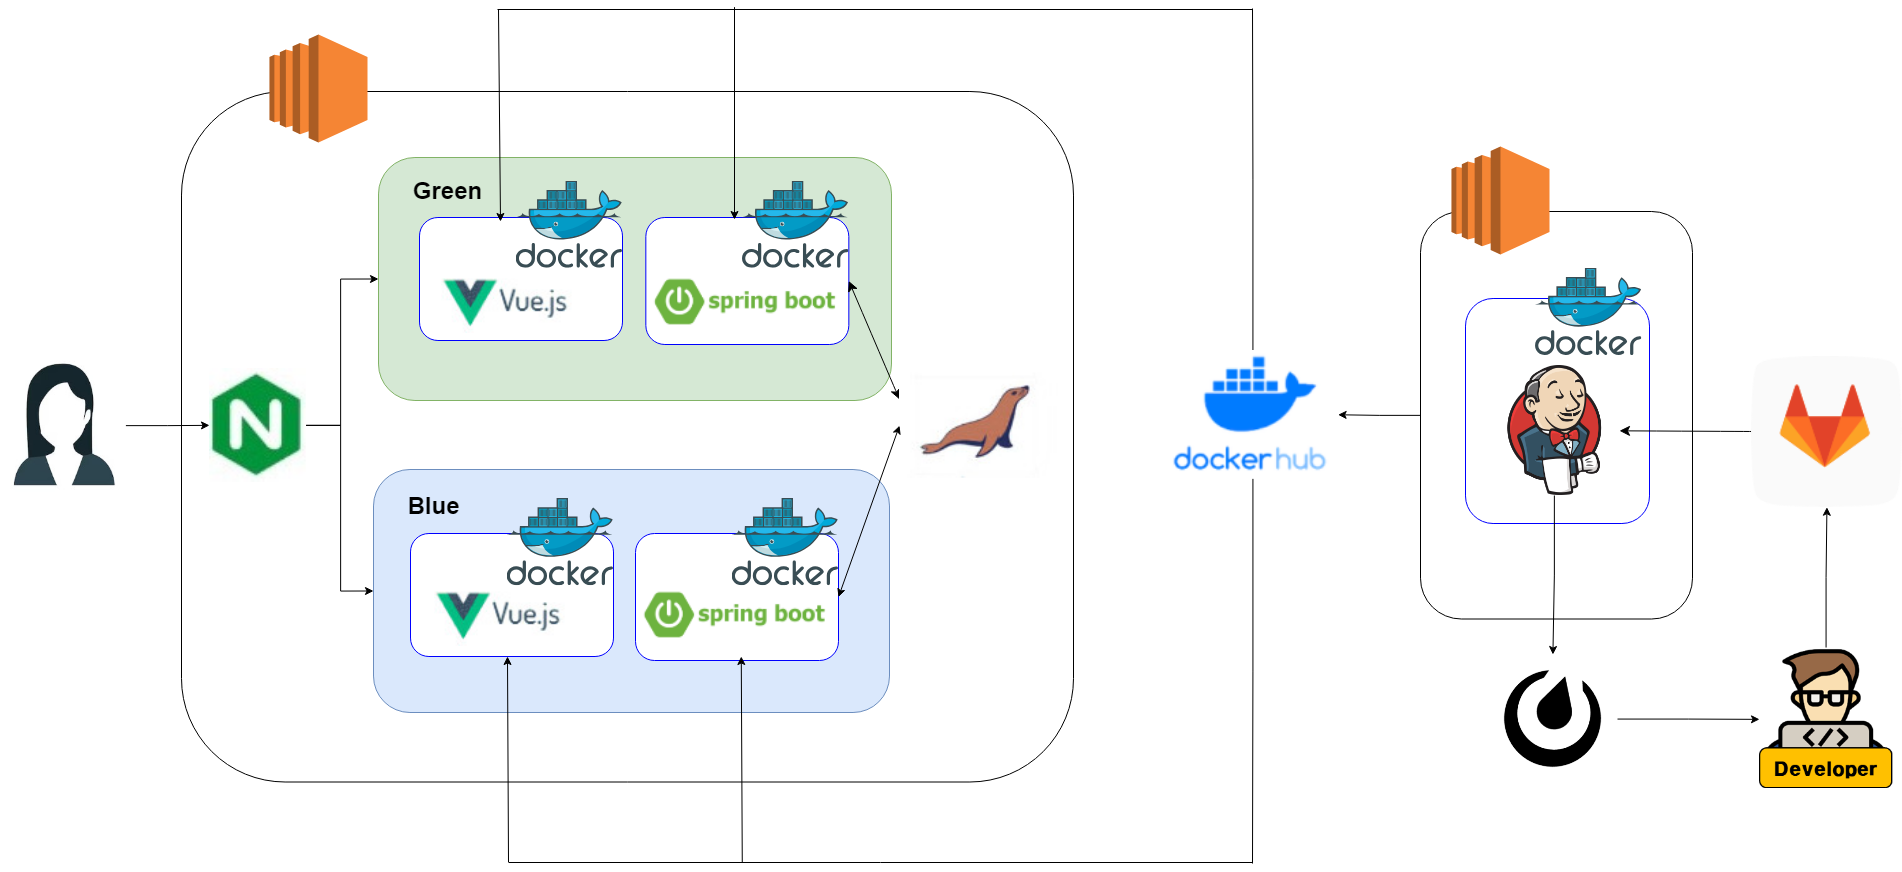
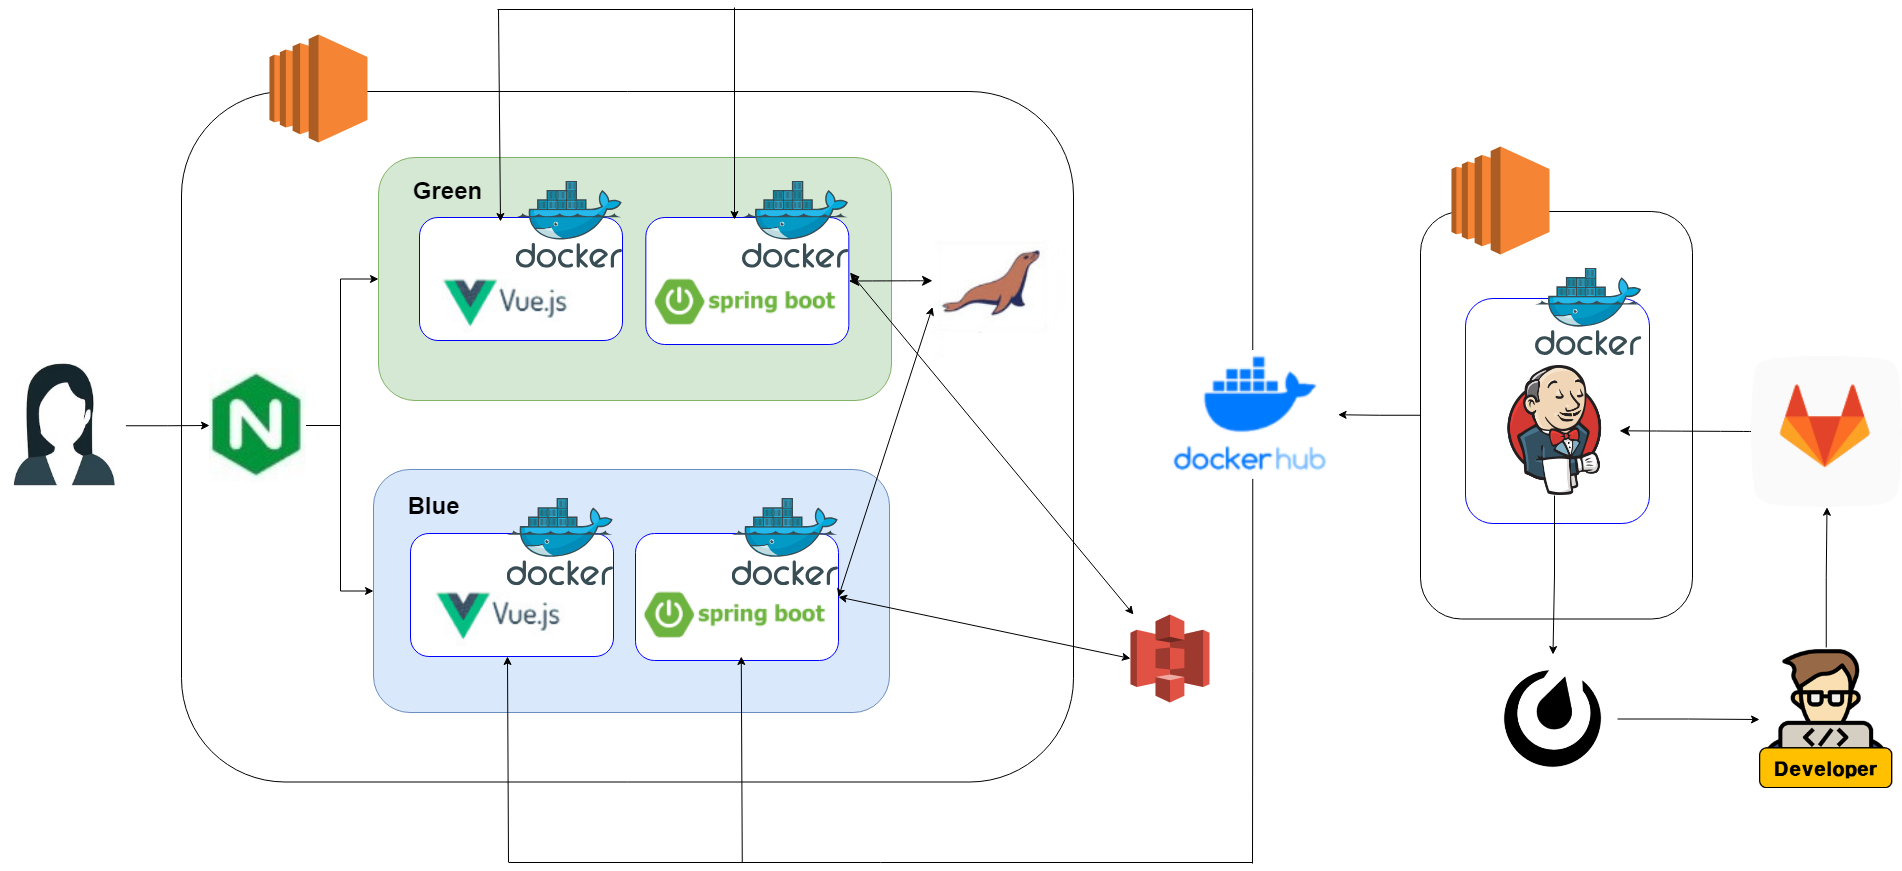
feat: readme 파일 수정

diff --git a/frontend/src/App.vue b/frontend/src/App.vue
@@ -29,7 +29,7 @@ onMounted(async () => {
 </script>
 
 <template>
-  <!-- test224fss4sssssss -->
+  <!-- test224fss4sssssssㅇㅇㅇㅇㅇㅇㅇㅇㅇㅇ -->
   <!-- <div class="flex justify-center bg-gray-800">
     <div
       class="bg-gray-200 main-container"

diff --git a/backend/src/main/java/com/ssafy/eggmoney/EggmoneyApplication.java b/backend/src/main/java/com/ssafy/eggmoney/EggmoneyApplication.java
@@ -5,7 +5,7 @@ import org.springframework.boot.autoconfigure.SpringBootApplication;
 import org.springframework.data.jpa.repository.config.EnableJpaAuditing;
 import org.springframework.scheduling.annotation.EnableScheduling;
 
-// test12ssssssssssss
+// test12ssssssssssssㅇㅇㅇㅇㅇㅇㅇㅇㅇㅇㅇ
 @SpringBootApplication
 @EnableJpaAuditing
 @EnableScheduling

diff --git a/README.md b/README.md
@@ -14,7 +14,9 @@
 
 1. 금융 API를 이용해 가상 계좌로 자금을 이체 <br/>
 2. 실제 주식 시장 데이터를 기반으로 가상 주식 매입/매도 활동 구현 <br/>
-3. 금융 뉴스: GPT를 이용한 뉴스 요약 제공 <br/>
+3. 예금 적금 상품 조회 및 가입 기능, 대출신청 및 심사 기능 제공<br/>
+4. QR 코드를 활용한 가족 연결<br/>
+5. 금융 뉴스: GPT를 이용한 뉴스 요약 <br/>
 
 ---
 #### 목차
@@ -42,7 +44,7 @@
 | **Framework** | Vue3.js | Spring Boot, Spring Security |  |
 | **Library** | Tailwind, PWA | JWT, JPA |  |
 | **DB** |  | MariaDB |  |
-| **Server** |  | Node.js | Amazon EC2, Nginx, Docker |
+| **Server** |  | Node.js | Amazon EC2, Nginx, Docker, S3 |
 | **CI/CD** |  |  | Jenkins, Mattermost |
 
 <br/>
@@ -73,7 +75,8 @@ MariaDB : MySQL의 포크로, 오픈 소스 관계형 데이터베이스 관리 
 Node.js : 서버 측 JavaScript 실행 환경으로, 비동기 I/O 모델을 사용하여 높은 성능과 확장성을 제공함. 웹 서버나 API 서버 구축에 적합.<br/>
 Amazon EC2 : 아마존 웹 서비스(AWS)의 클라우드 컴퓨팅 서비스로, 가상 서버를 손쉽게 생성하고 관리할 수 있음. 유연한 스케일링과 비용 효율성을 제공.<br/>
 Nginx : 고성능 웹 서버 및 리버스 프록시 서버로, 정적 파일 제공, 로드 밸런싱, SSL/TLS 지원 등을 통해 웹 애플리케이션의 성능을 개선함.<br/>
-Docker : 애플리케이션을 컨테이너화하여 배포할 수 있는 플랫폼으로, 개발 환경을 일관되게 유지하고 이식성을 높임. 여러 환경에서 동일한 성능을 보장함.
+Docker : 애플리케이션을 컨테이너화하여 배포할 수 있는 플랫폼으로, 개발 환경을 일관되게 유지하고 이식성을 높임. 여러 환경에서 동일한 성능을 보장함. <br/>
+Amazon S3: 객체 저장 서비스를 제공하는 플랫폼으로, 대량의 데이터를 안전하게 저장하고 관리할 수 있는 기능을 제공함. 데이터 백업, 복구 및 정적 웹 호스팅 지원. 다양한 애플리케이션과 통합이 용이하여, 필요한 경우 언제든지 데이터를 빠르게 액세스할 수 있음.
 
 </div>
 </details>
@@ -247,12 +250,39 @@ Blue/Green 배포는 애플리케이션의 새로운 버전을 배포할 때 서
 
 
 
-<details>
-<summary> 3⃣ 하둡, 스파크, SQOOP</summary>
 
-작성 예정
+<details>
+<summary>3⃣ 하둡, 스파크, SQOOP</summary>
+
+### 하둡
+
+- **정의**: 
+  - 대용량 데이터 처리를 위한 오픈 소스 프레임워크로, 분산 저장과 처리 시스템을 기반으로 함. 데이터 저장을 위해 HDFS(Hadoop Distributed File System)를 사용하며, MapReduce 프로그래밍 모델을 통해 데이터를 분석함.
+
+### 주요 구성 요소
+
+1. **HDFS**: 
+   - 대용량 데이터의 분산 저장을 위한 파일 시스템으로, 데이터의 신뢰성과 내구성을 보장함.
+
+2. **MapReduce**: 
+   - 대규모 데이터셋을 처리하기 위한 프로그래밍 모델로, 데이터를 분산 처리하여 효율성을 극대화함.
+
+3. **YARN**: 
+   - 자원 관리 시스템으로, 클러스터의 자원을 효율적으로 할당하고 관리함.
+
+### 장점
+
+- **확장성**: 
+  - 노드를 추가함으로써 용량과 처리 능력을 손쉽게 확장할 수 있음.
+
+- **비용 효율성**: 
+  - 일반 하드웨어에서 운영할 수 있어 데이터 처리 비용을 절감할 수 있음.
+
+- **유연성**: 
+  - 구조화된 데이터뿐만 아니라 비정형 데이터도 저장하고 처리할 수 있음.
 
 </details>
+
 
 
 
@@ -497,8 +527,8 @@ Full Stack 6명
 | 곽재은 | 주식 기능, 알림, 공통 컴포넌트, PWA & 프런트 셋팅 | 
 | 김신범 | 주식 기능, 알림, Spring Boot 기본셋팅 | 
 | 정지영 | 자산, 금융, Spring Boot 기본셋팅, DB 기본셋팅, UCC |
-| 황우성 | 자산, 금융, Spring Boot 기본셋팅, DB 기본셋팅 |  
-| 정소영 | 인프라 웹 배포, 퀴즈, 회원 관련 페이지 프런트 디자인 |  
+| 황우성 | 자산, 금융, Spring Boot 기본셋팅, DB 기본셋팅, 금융 퀴즈 백로직 |  
+| 정소영 | 인프라 웹 배포, 회원 & 전체 페이지 프런트 디자인, 이벤트 (퀴즈,게임,룰렛) |  
 
 ---
 ##### 🙇 VII. 느낀 점
